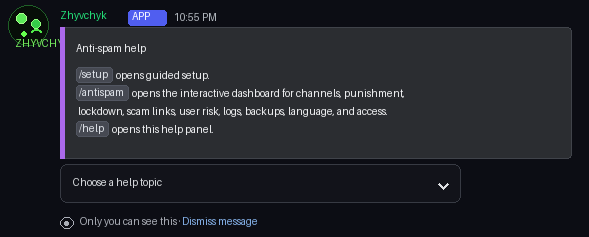
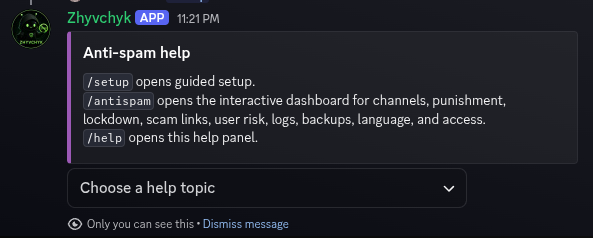
Replace documentation screenshots

diff --git a/README.uk.md b/README.uk.md
@@ -29,9 +29,9 @@ English documentation: [README.md](README.md)
 
 ## Скріншоти
 
-| Статус після встановлення | Панель `/antispam` | Панель `/help` |
+| Статус налаштованого сервера | Панель `/antispam` | Панель `/help` |
 | --- | --- | --- |
-| ![Статус антиспаму після встановлення](docs/assets/screenshots/status-fresh-install.png) | ![Панель керування антиспамом](docs/assets/screenshots/antispam-panel.png) | ![Панель допомоги антиспаму](docs/assets/screenshots/help-panel.png) |
+| ![Статус антиспаму налаштованого сервера](docs/assets/screenshots/status-configured-server.png) | ![Панель керування антиспамом](docs/assets/screenshots/antispam-panel.png) | ![Панель допомоги антиспаму](docs/assets/screenshots/help-panel.png) |
 
 ## Швидкий старт
 

diff --git a/README.md b/README.md
@@ -29,9 +29,9 @@ Ukrainian documentation: [README.uk.md](README.uk.md)
 
 ## Screenshots
 
-| Fresh install status | `/antispam` control panel | `/help` panel |
+| Configured server status | `/antispam` control panel | `/help` panel |
 | --- | --- | --- |
-| ![Fresh install anti-spam status](docs/assets/screenshots/status-fresh-install.png) | ![Anti-spam control panel](docs/assets/screenshots/antispam-panel.png) | ![Anti-spam help panel](docs/assets/screenshots/help-panel.png) |
+| ![Configured server anti-spam status](docs/assets/screenshots/status-configured-server.png) | ![Anti-spam control panel](docs/assets/screenshots/antispam-panel.png) | ![Anti-spam help panel](docs/assets/screenshots/help-panel.png) |
 
 ## Quick Start
 
